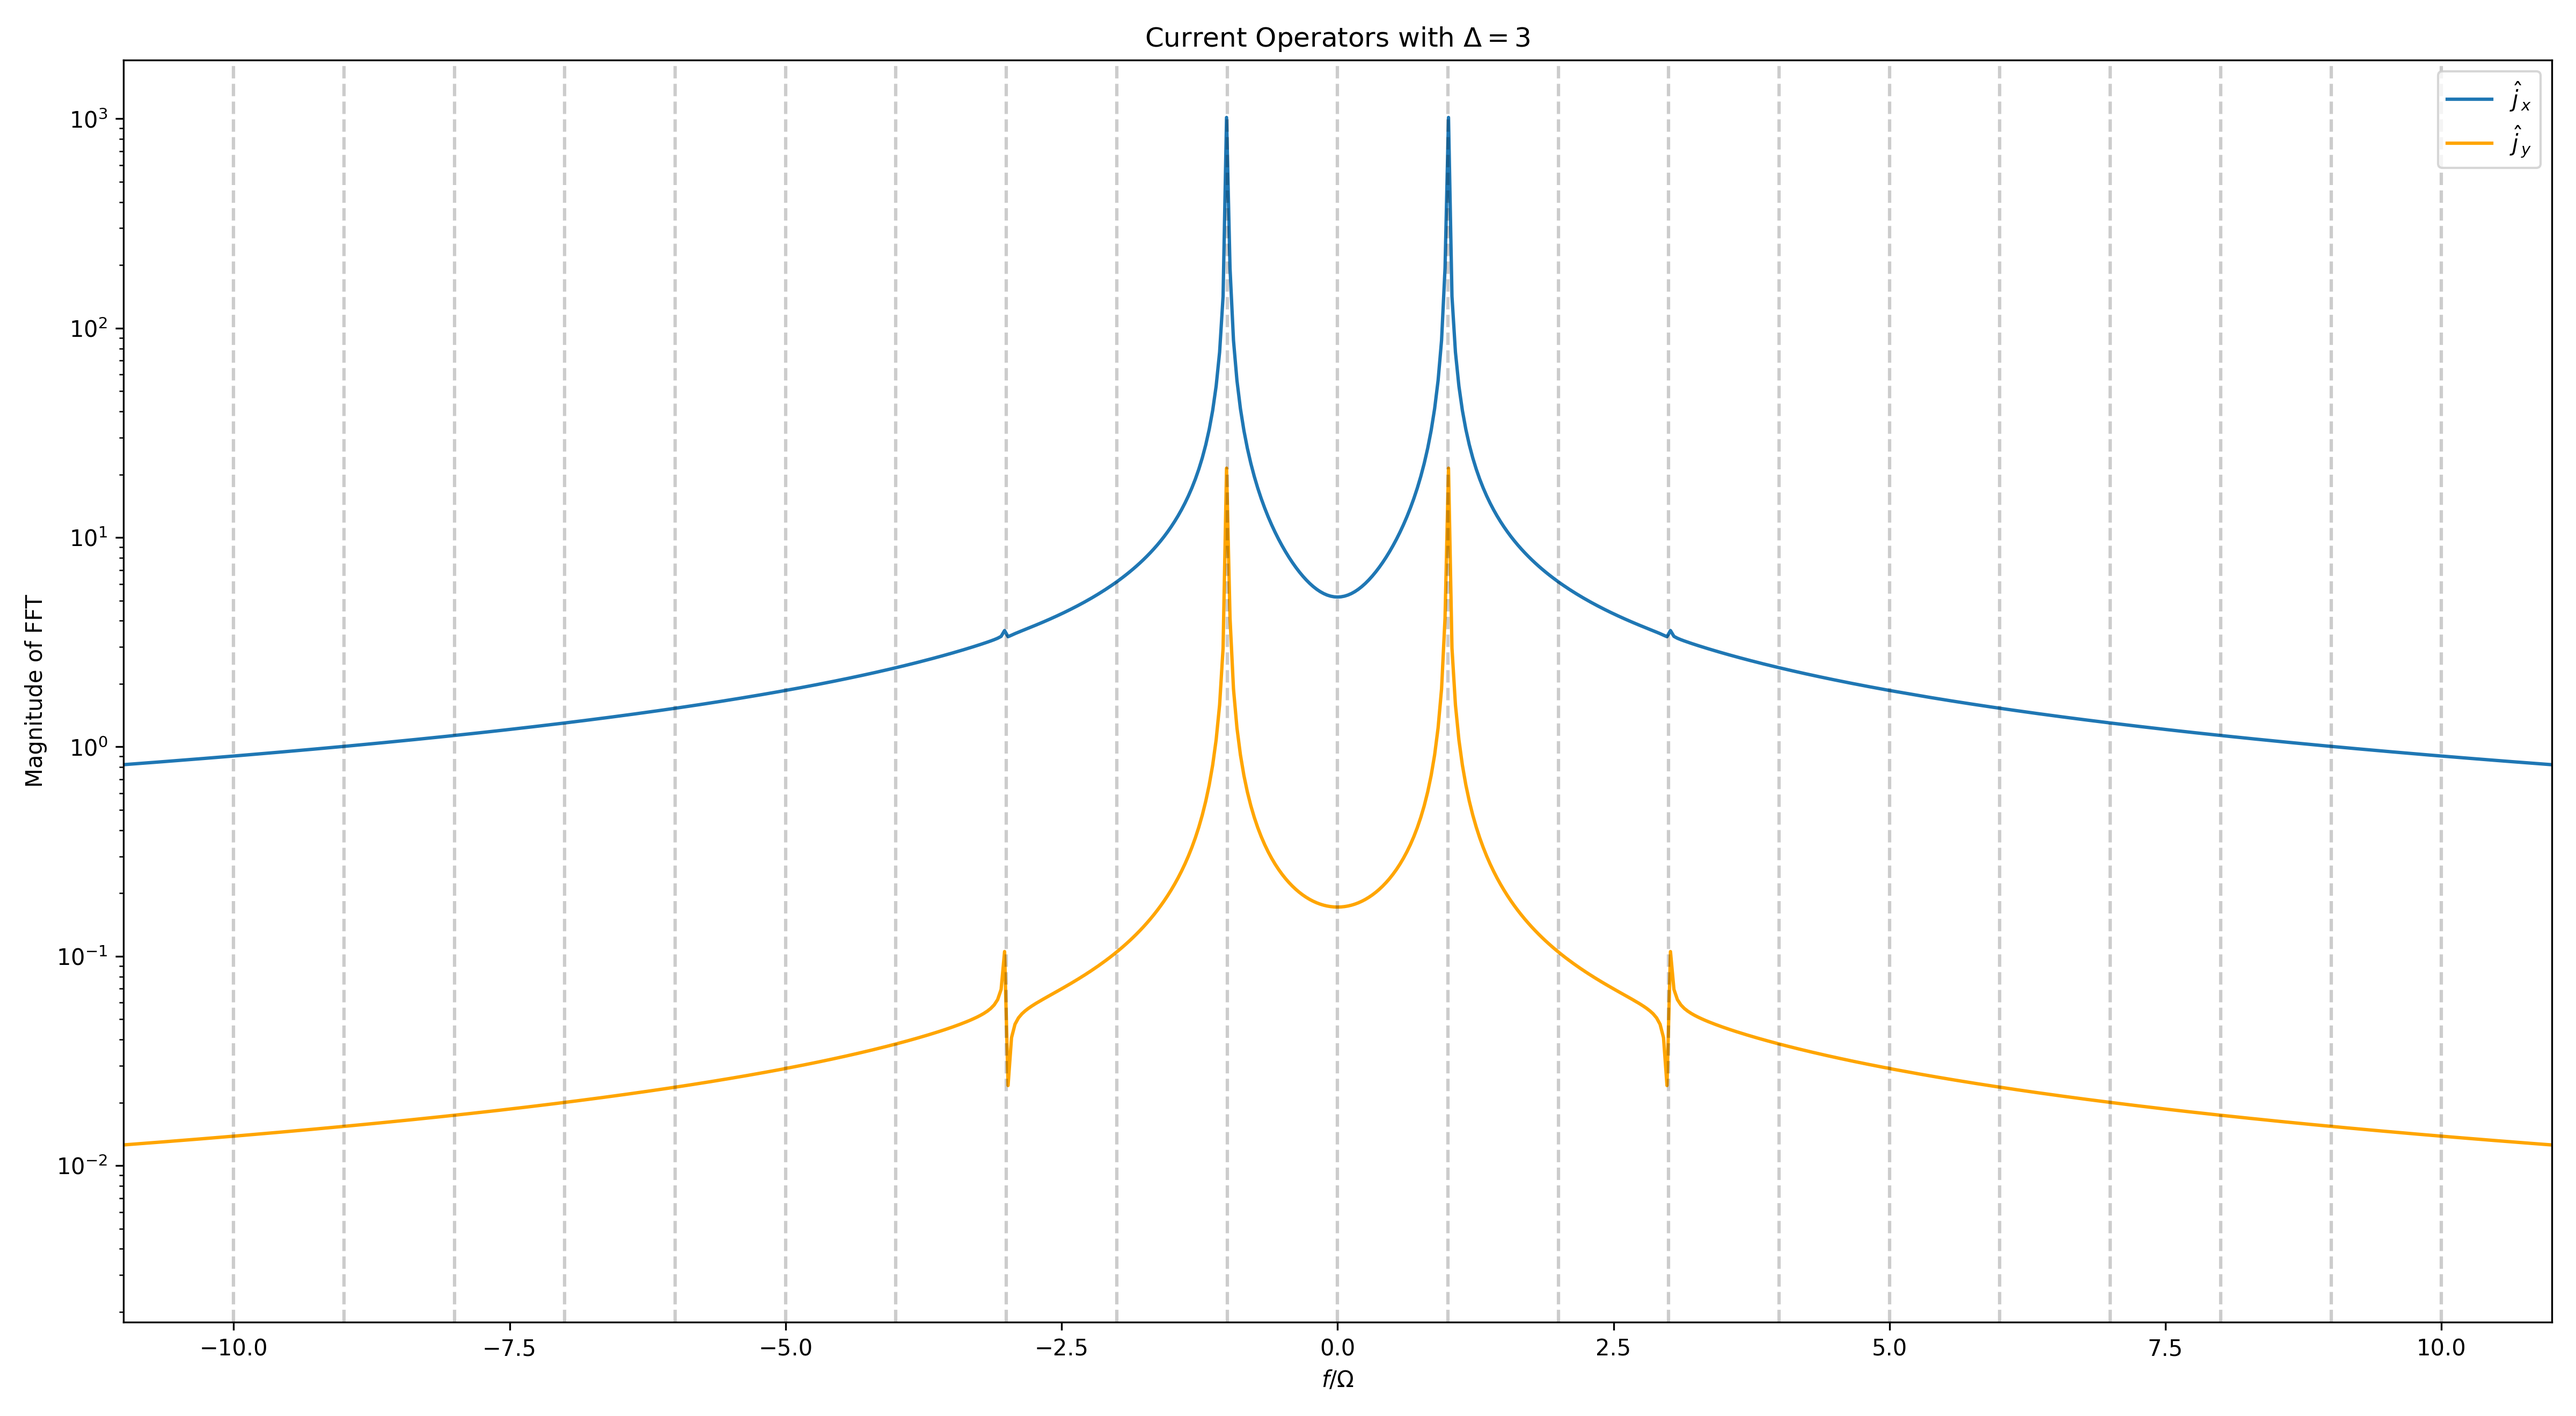
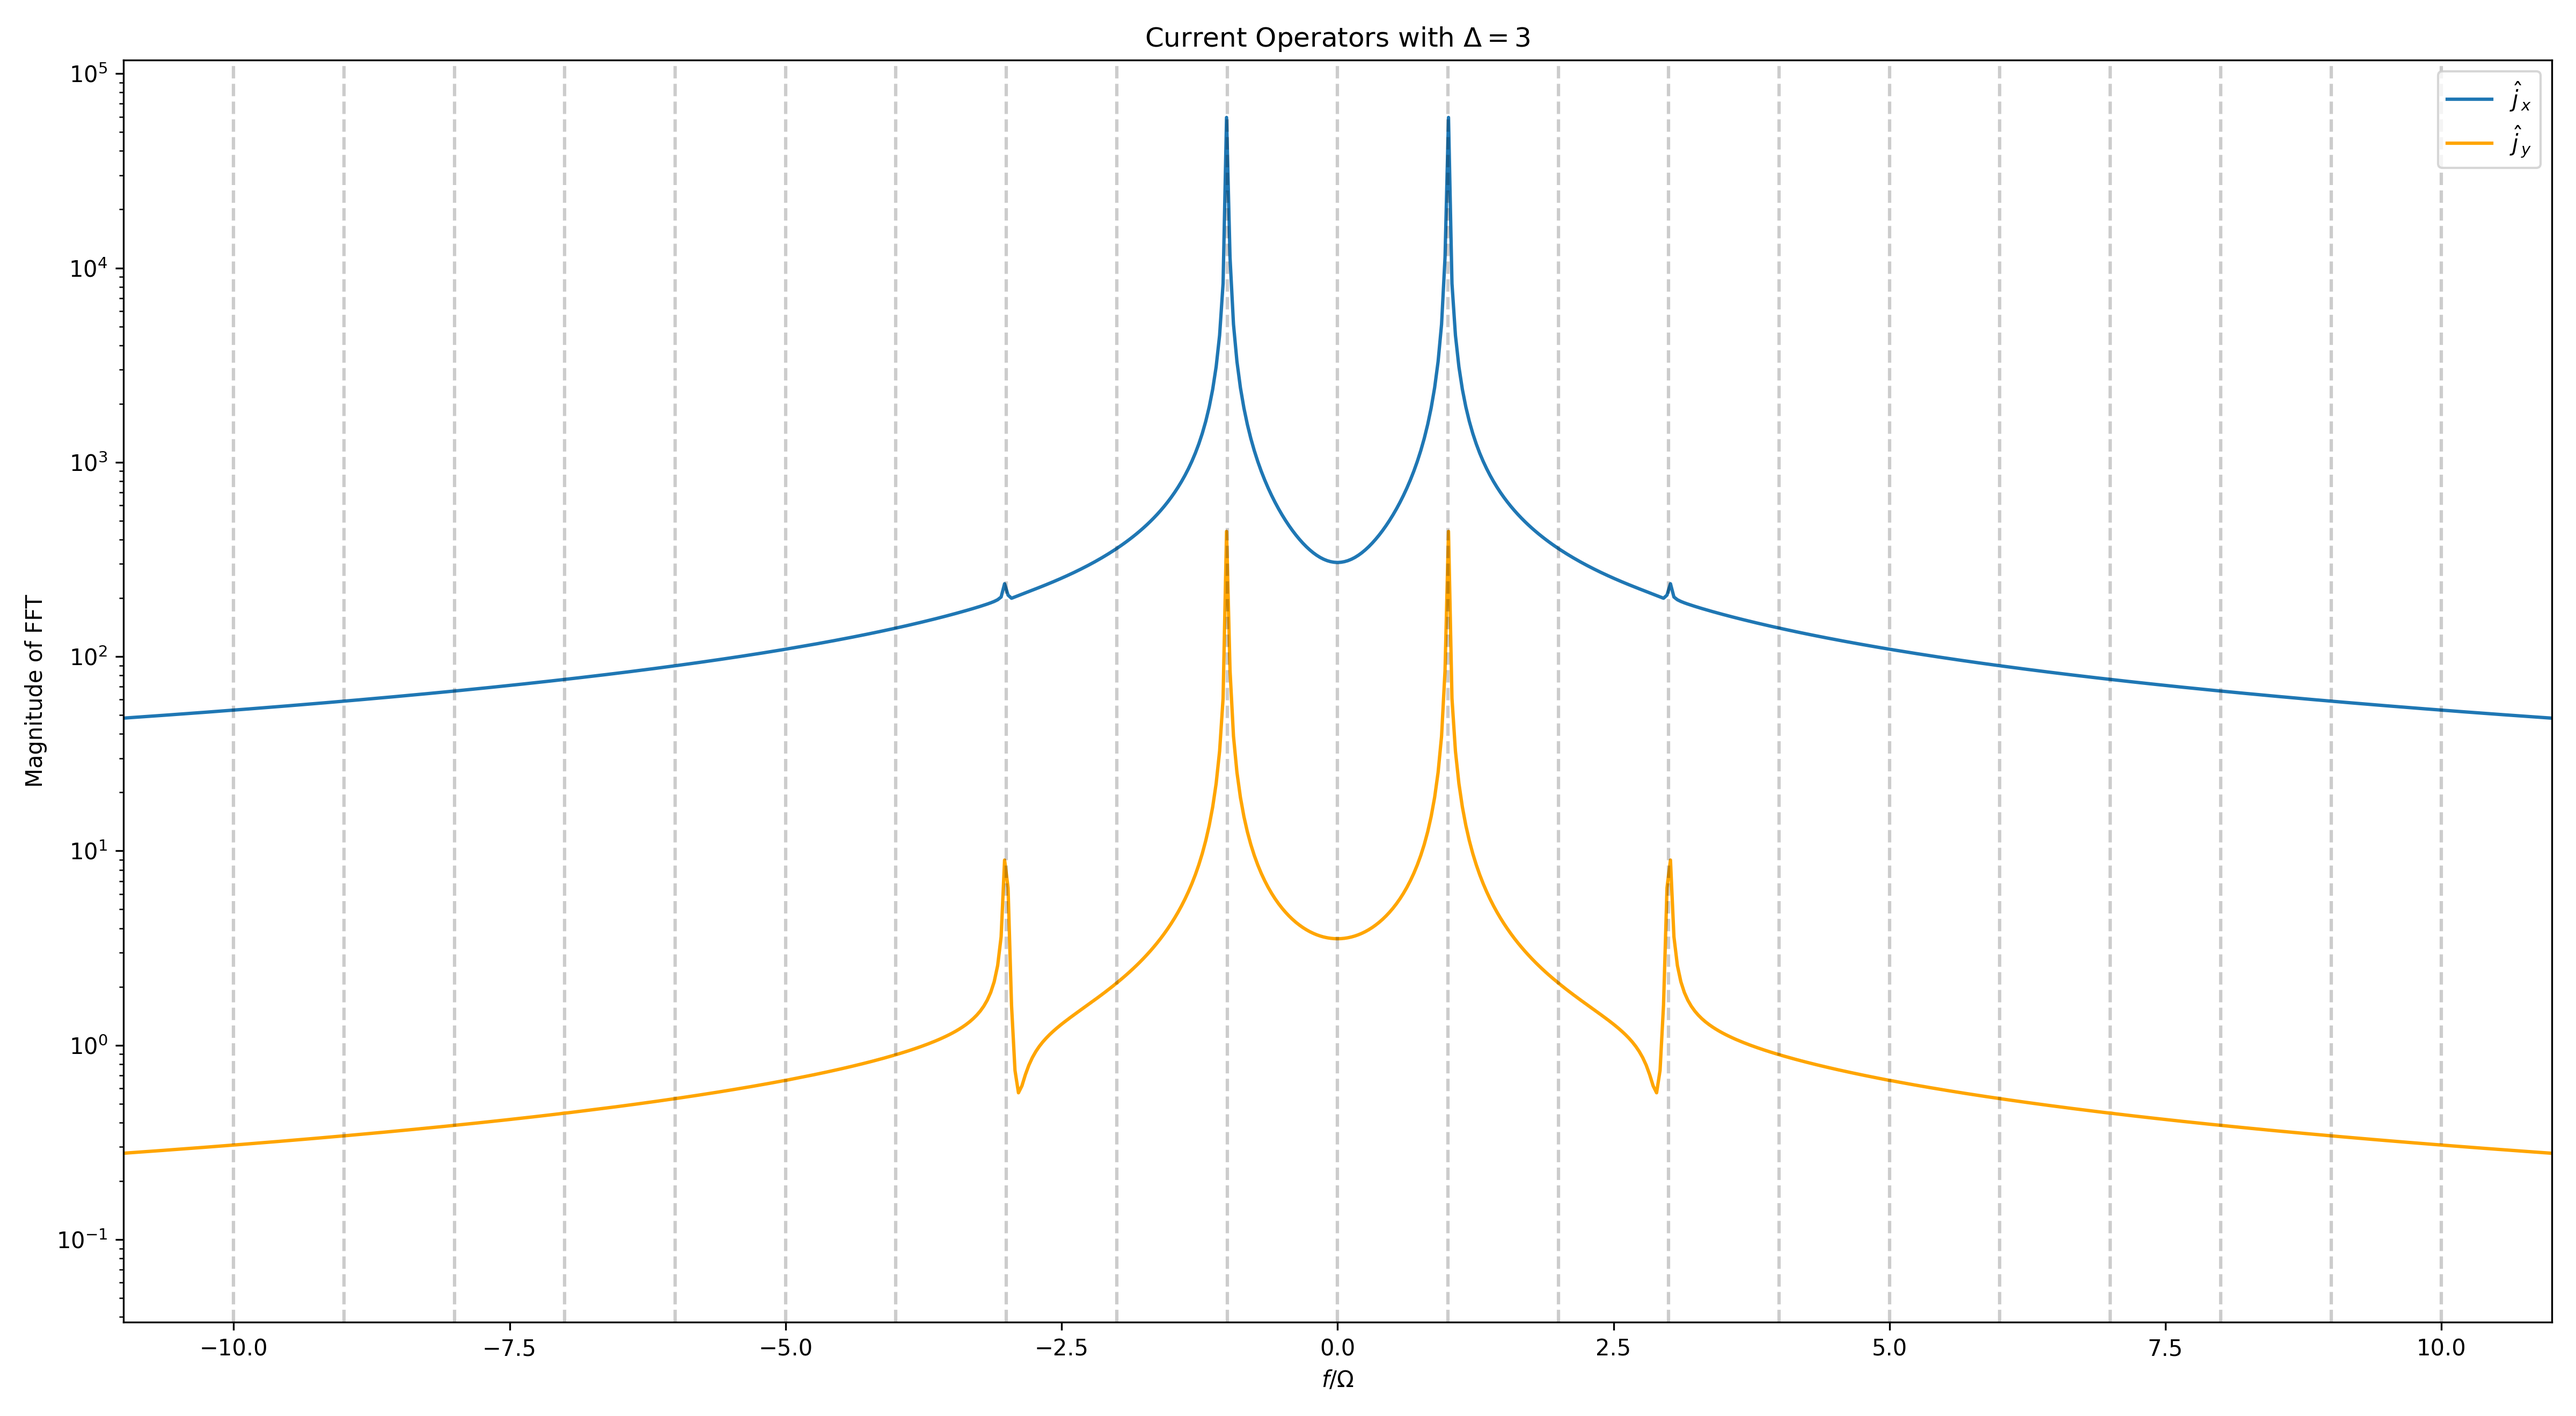
Found out that with certain offsets on the bounds of the BZ, the y current goes to zero. However, its really weird and seems somewhat non-physical? And doesn't match my expectations if the rho poles were to be the problem. They might still be involved but the problem seems more nuanced. Regardless, 

diff --git a/chern_insulator/Plotting.py b/chern_insulator/Plotting.py
@@ -84,7 +84,7 @@ class Plotting:
                     ax[row, col].legend()
 
                 ax[row, col].set_xlabel(self.__tLabel)
-                ax[row, col].set_ylabel(f"{functionLabels[row]} Part of $\hat \sigma_{subscripts[col]}$")
+                ax[row, col].set_ylabel(fr"{functionLabels[row]} Part of $\hat \sigma_{subscripts[col]}$")
                 ax[row, col].set_xlim(None, tMax)
         
         plt.suptitle(rf"Single-Time Correlations for $(k_x, k_y) = ({kx / np.pi:.2f}\pi, {ky / np.pi:.2f}\pi)$")
@@ -97,7 +97,10 @@ class Plotting:
         """Plots the paramagnetic current as a function of time."""
 
         axes = self.__ensemble.axes
-        current = self.__ensemble.totalCurrent
+        current = self.__ensemble.totalCurrent.paramagneticCurrent
+
+        print(f"Jx: {np.max(np.abs(current[0, -1000]))}")
+        print(f"Jy: {np.max(np.abs(current[1, -1000]))}")
 
         labels = [r"$\hat j_x$", r"$\hat j_y$"]
         alpha = 0.2
@@ -111,24 +114,24 @@ class Plotting:
 
             # Plots the main operator with full opacity.
             ax[0].plot(axes.tauAxisDim,
-                       current.paramagneticCurrent[operatorIndex].real,
+                       current[operatorIndex].real,
                        color = colors[operatorIndex],
                        label = labels[operatorIndex])
 
             ax[1].plot(axes.tauAxisDim,
-                       current.paramagneticCurrent[operatorIndex].imag,
+                       current[operatorIndex].imag,
                        color = colors[operatorIndex],
                        label = labels[operatorIndex])
 
             # Plots the other operator with small opacity.
             ax[0].plot(axes.tauAxisDim,
-                       current.paramagneticCurrent[opacityIndex].real,
+                       current[opacityIndex].real,
                        color = colors[opacityIndex],
                        label = labels[opacityIndex],
                        alpha = alpha)
 
             ax[1].plot(axes.tauAxisDim,
-                       current.paramagneticCurrent[opacityIndex].imag,
+                       current[opacityIndex].imag,
                        color = colors[opacityIndex],
                        label = labels[opacityIndex],
                        alpha = alpha)

diff --git a/chern_insulator/main.py b/chern_insulator/main.py
@@ -6,22 +6,22 @@ from Ensemble import Ensemble
 from Plotting import Plotting
 
 # Number of TOTAL momentum points.
-numK = 8**2
+numK = 20**2
 tauMax = 50
 
 params = EnsembleParameters(
     delta = 3,
     drivingAmp = 0.2,
     decayConstant = 0.2,
-    maxN = 50
+    maxN = 25
 )
 
 ensemble = Ensemble(params)
-# ensemble.SampleBrillouinZone(numK)
-ensemble.AddMomentum((np.pi / 4, np.pi / 8))
-ensemble.AddMomentum((np.pi / 4, -np.pi / 8))
-ensemble.AddMomentum((-np.pi / 4, np.pi / 8))
-ensemble.AddMomentum((-np.pi / 4, -np.pi / 8))
+ensemble.SampleBrillouinZone(numK)
+# ensemble.AddMomentum((np.pi / 4, np.pi / 8))
+# ensemble.AddMomentum((np.pi / 4, -np.pi / 8))
+# ensemble.AddMomentum((-np.pi / 4, np.pi / 8))
+# ensemble.AddMomentum((-np.pi / 4, -np.pi / 8))
 ensemble.Run(tauMax)
 
 plot = Plotting(ensemble)

diff --git a/chern_insulator/Ensemble.py b/chern_insulator/Ensemble.py
@@ -96,9 +96,11 @@ class Ensemble:
         if sqrtK % 2 != 0:
             sqrtK += 1
 
-        offset = 0.01
-        axisPoints = np.linspace(-np.pi + offset, np.pi - offset, sqrtK)
-        x, y = np.meshgrid(axisPoints, axisPoints)
+        offsetX, offsetY = 0, 0.3
+        print(offsetX, offsetY)
+        xPoints = np.linspace(-np.pi + offsetX, np.pi - offsetX, sqrtK)
+        yPoints = np.linspace(-np.pi + offsetY, np.pi - offsetY, sqrtK)
+        x, y = np.meshgrid(xPoints, yPoints)
  
         # Stacks x and y so that the last axis differentiates between them.
         momentums = np.stack((x.flatten(), y.flatten()), axis=-1)

diff --git a/chern_insulator/nontrivial-current.md b/chern_insulator/nontrivial-current.md
@@ -18,6 +18,8 @@ The $\sigma_z$ term seems weird, but it matches the numerical solution, so unles
 
 I've looked at every formula in the Hamiltonian class and they match my derivations. Need to check whether my derivations are correct.
 
+Seems like we're using the right number of momentum points.
+
 ## Rho Singularities
 
 There are singularities at $\{ (x, y) : x, y \in \{-\pi, 0, \pi \} \}$. These points have $\rho = 0$, so the assumption is that because $\rho$ gets so small, at opposite momentums the value of $\rho$ undergoes rounding errors, meaning $1 / \rho$ doesn't match at opposite momentums, and hence the Jy current terms don't cancel.
